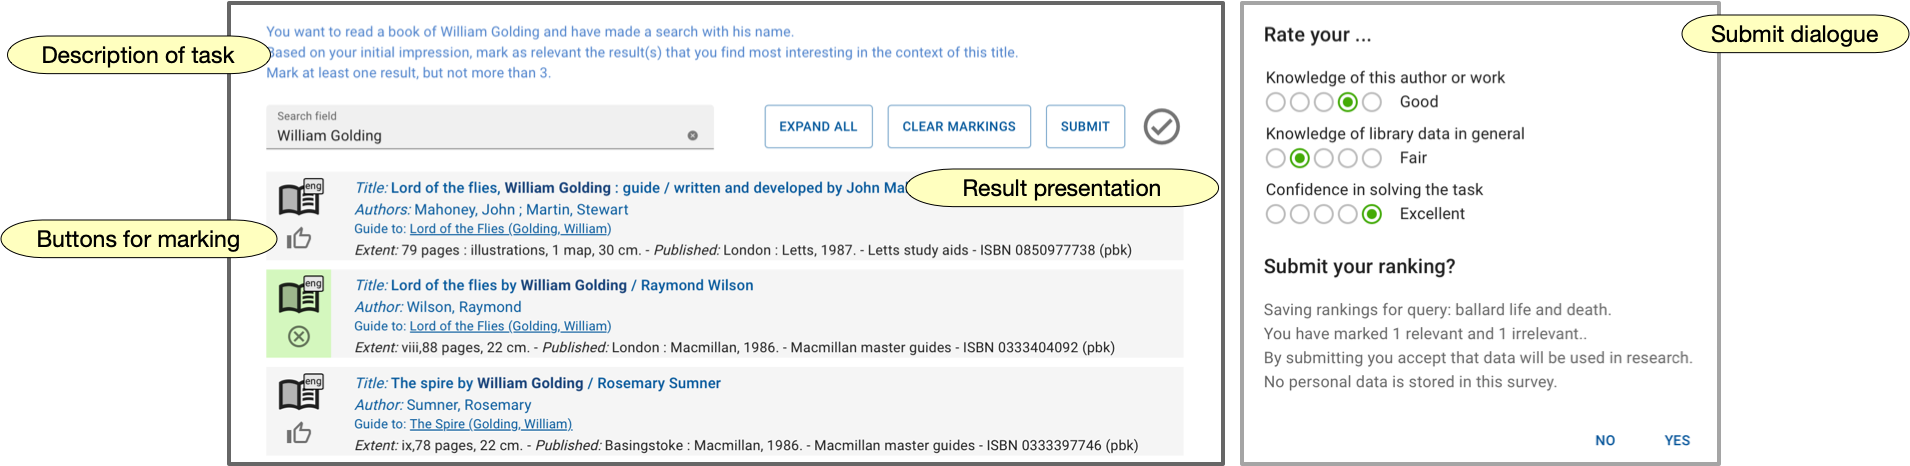
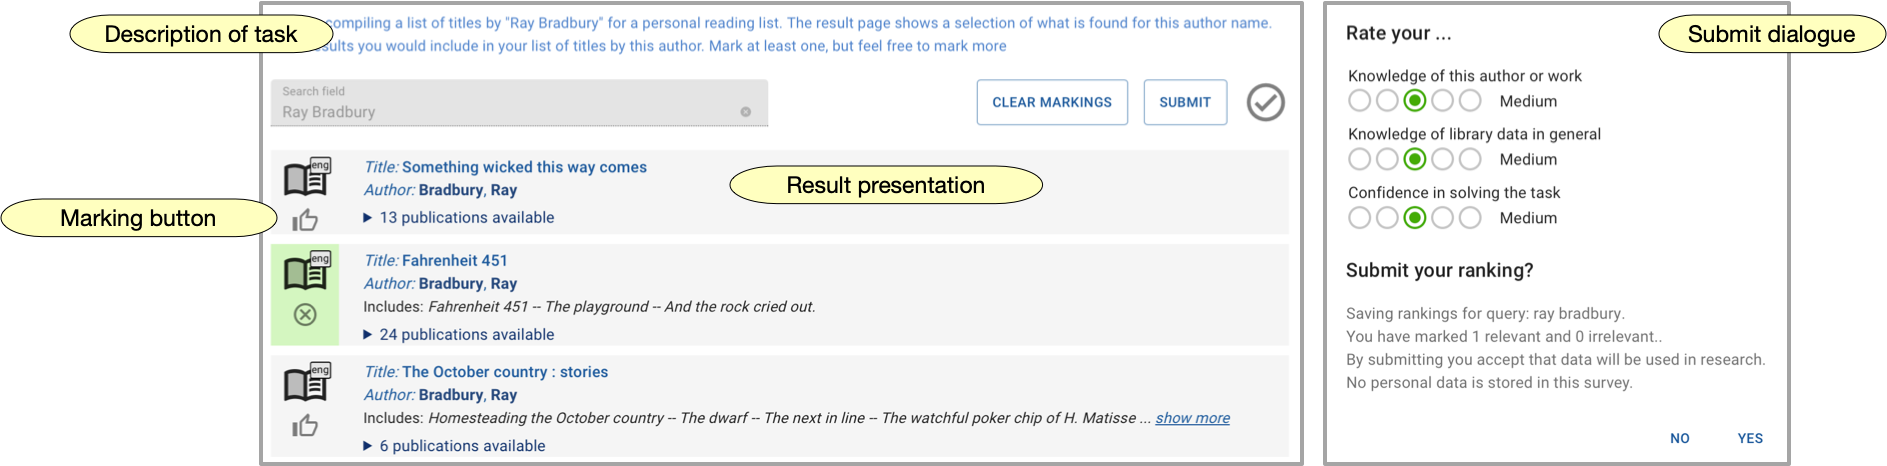
minor fixes

diff --git a/survey/src/Survey.jsx b/survey/src/Survey.jsx
@@ -28,6 +28,9 @@ const a_questions = [
     ["You are compiling a list of titles by \"J. G. Ballard\" for a personal reading list. The result page shows a selection of what is found for this author name.",
         "http://dijon.idi.ntnu.no/lrm-search/?query=J.G.+Ballard&language=english&content=text&subject=surveyitem",
         "Go to the results for a search on \"J. G. Ballard\"", "J.G. Ballard"],
+    /*["You are compiling a list of titles by \"Ray Bradbury\" for a personal reading list. The result page shows a selection of what is found for this author name.",
+        "http://dijon.idi.ntnu.no/lrm-search/?query=Ray+Bradbury&language=english&content=text&subject=surveyitem",
+        "Go to the results for a search on \"Ray Bradbury\"", "Ray Bradbury"]*/
 ];
 // Author + title questions
 const at_questions = [

diff --git a/frontend/src/Search/SubmitRanking.jsx b/frontend/src/Search/SubmitRanking.jsx
@@ -129,7 +129,7 @@ export default function SubmitRanking({query, results}) {
                     <Button onClick={handleSave} autoFocus>Yes</Button>
                 </DialogActions>
             </Dialog>
-            <Tooltip title={tasks.includes(uri) ? "You have completed this task." : "Not submitted this task yet."} placement={"right"}>
+            <Tooltip title={tasks.includes(uri) ? "You have completed this task." : "Not submitted this task yet."} placement={"top"}>
                 <CheckCircleOutlineSharpIcon color={tasks.includes(uri) ? "success" : "action"} sx={{fontSize: 40}}/>
             </Tooltip>
         </Box>
